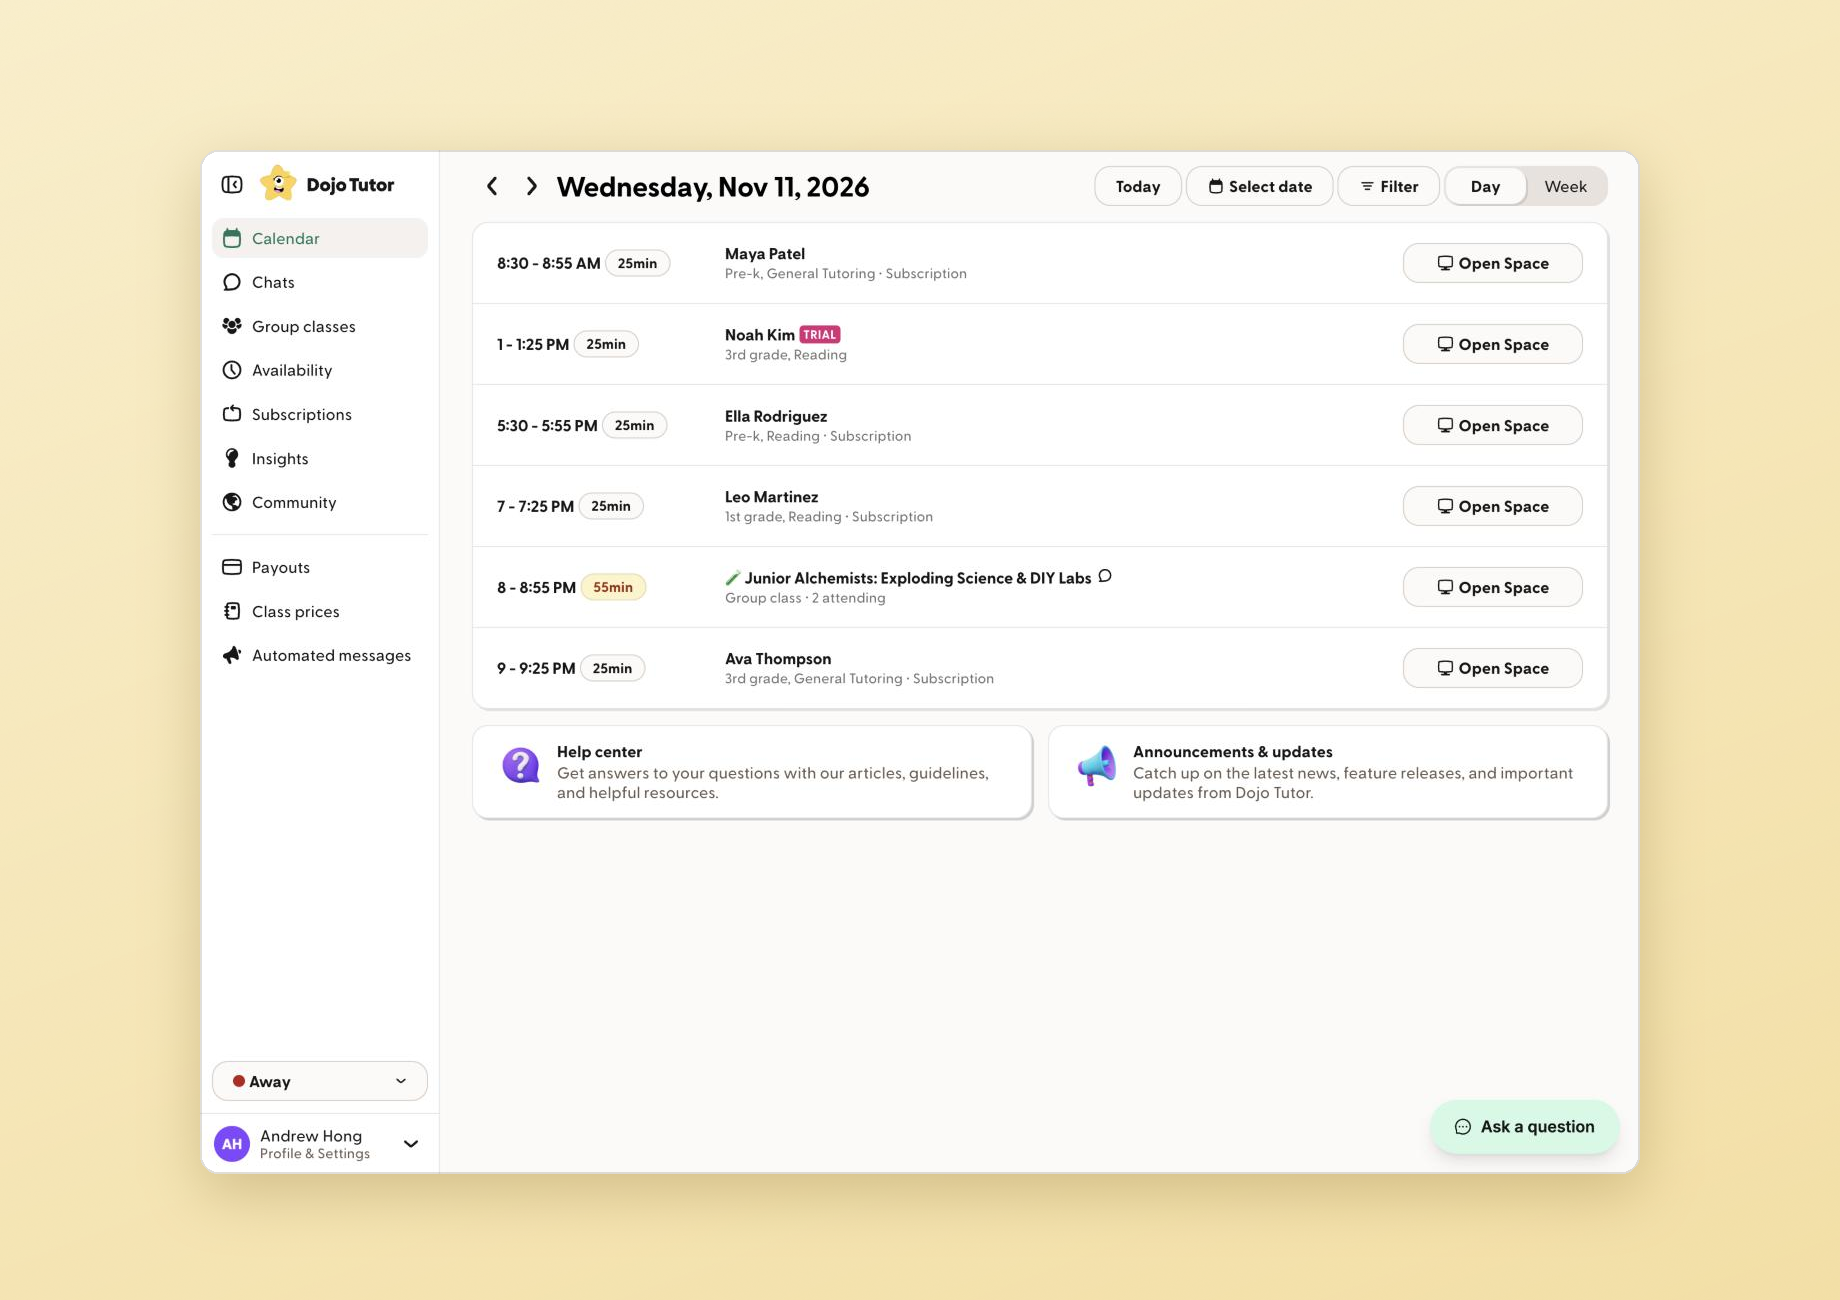
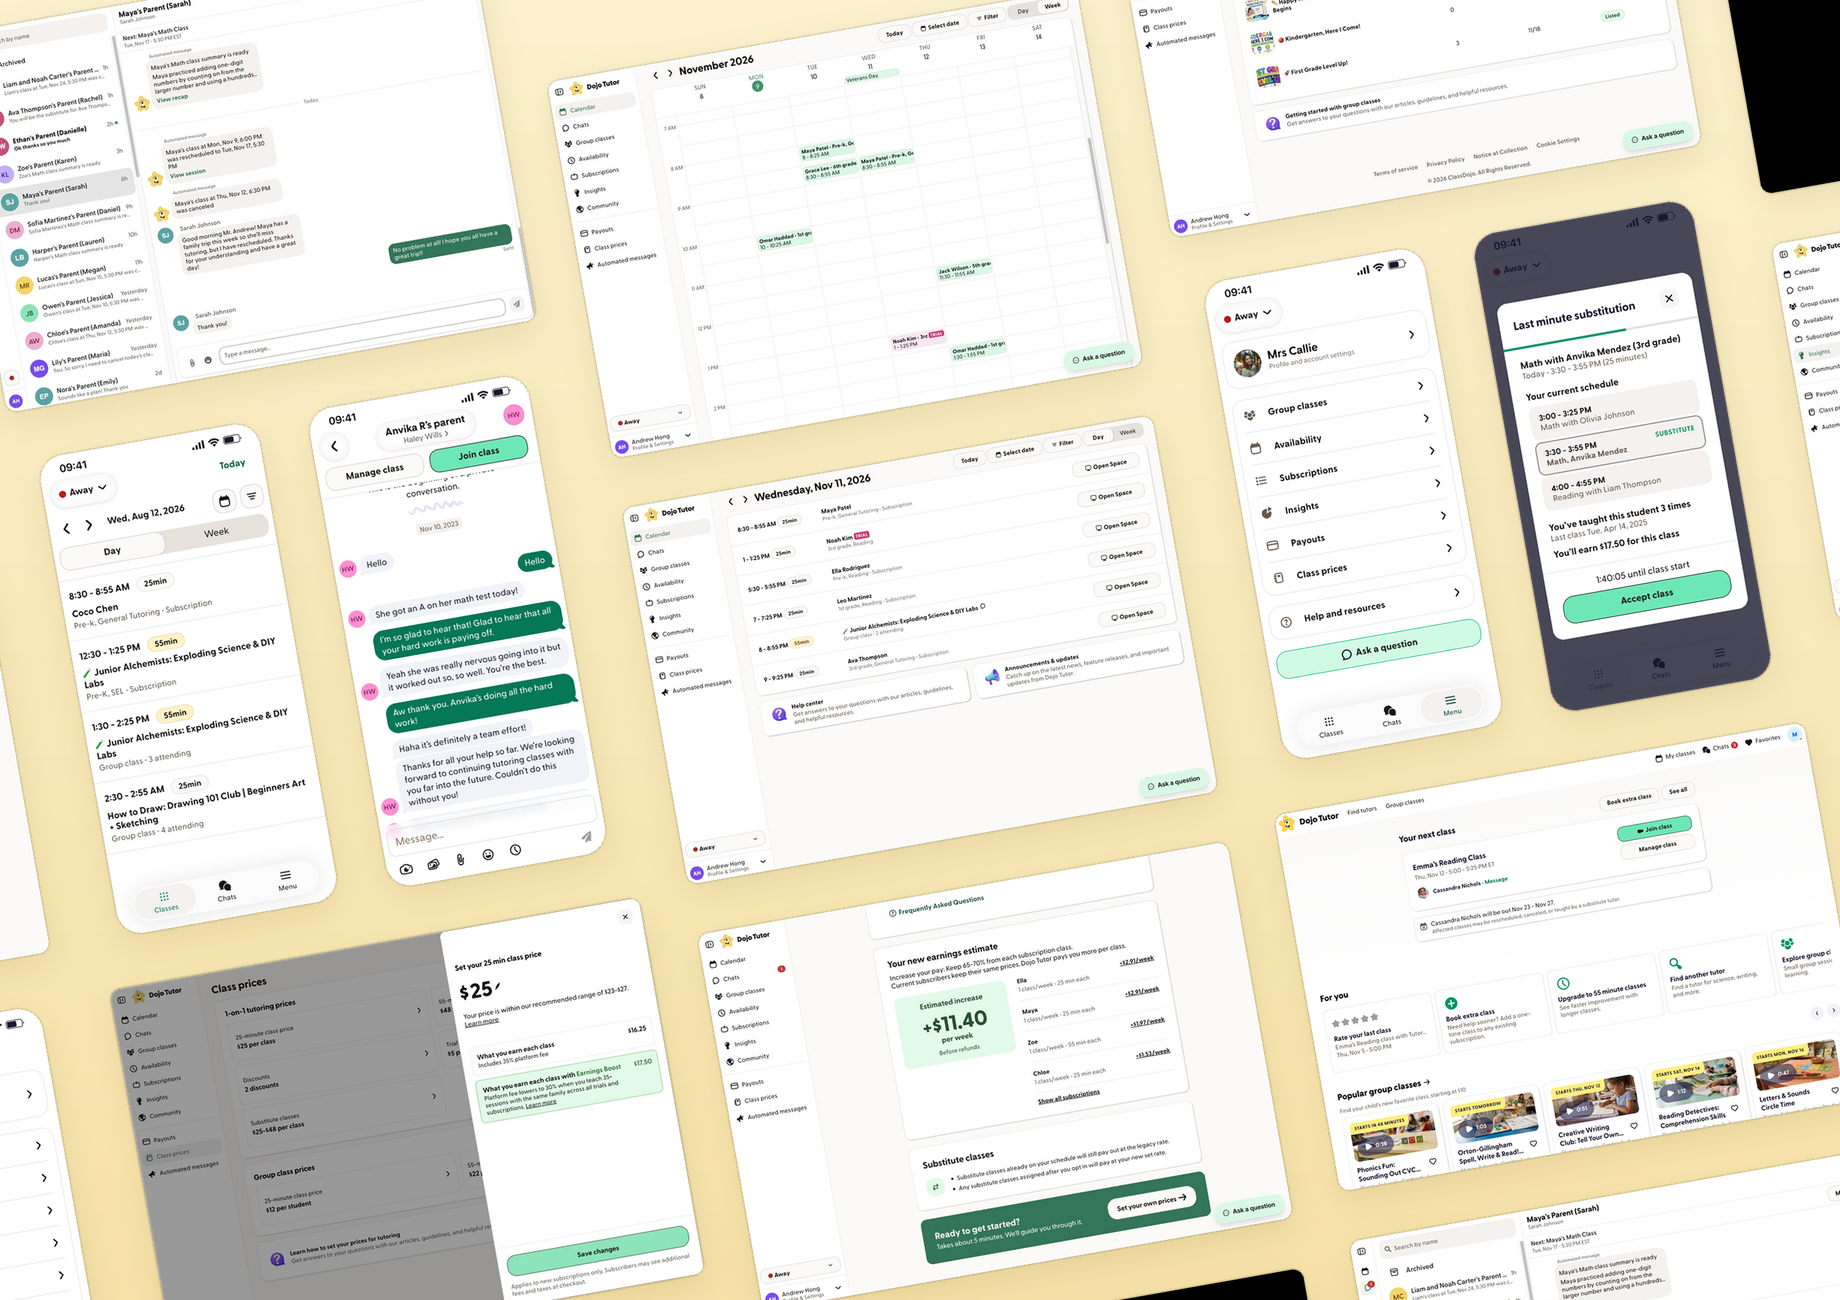
Dojo Tutor hero: wall of real product screens
Claude-Session: https://claude.ai/code/session_01A19893EJfDfizHpxC37KzM

diff --git a/src/data/site.ts b/src/data/site.ts
@@ -47,7 +47,7 @@ export const recent: {
     tagline: 'is ClassDojo’s marketplace connecting tutors and families across a wide range of subjects, in both 1-on-1 and group formats.',
     tags: 'Product design • Product building',
     href: '/dojo-tutor',
-    hero: { name: 'dojo-tutor-hero', alt: 'Dojo Tutor tutor calendar showing the day’s classes' },
+    hero: { name: 'dojo-tutor-hero', alt: 'A wall of Dojo Tutor screens across web and mobile: calendars, chats, pricing, group classes, insights, and the parent home' },
   },
   {
     company: 'Hank',
